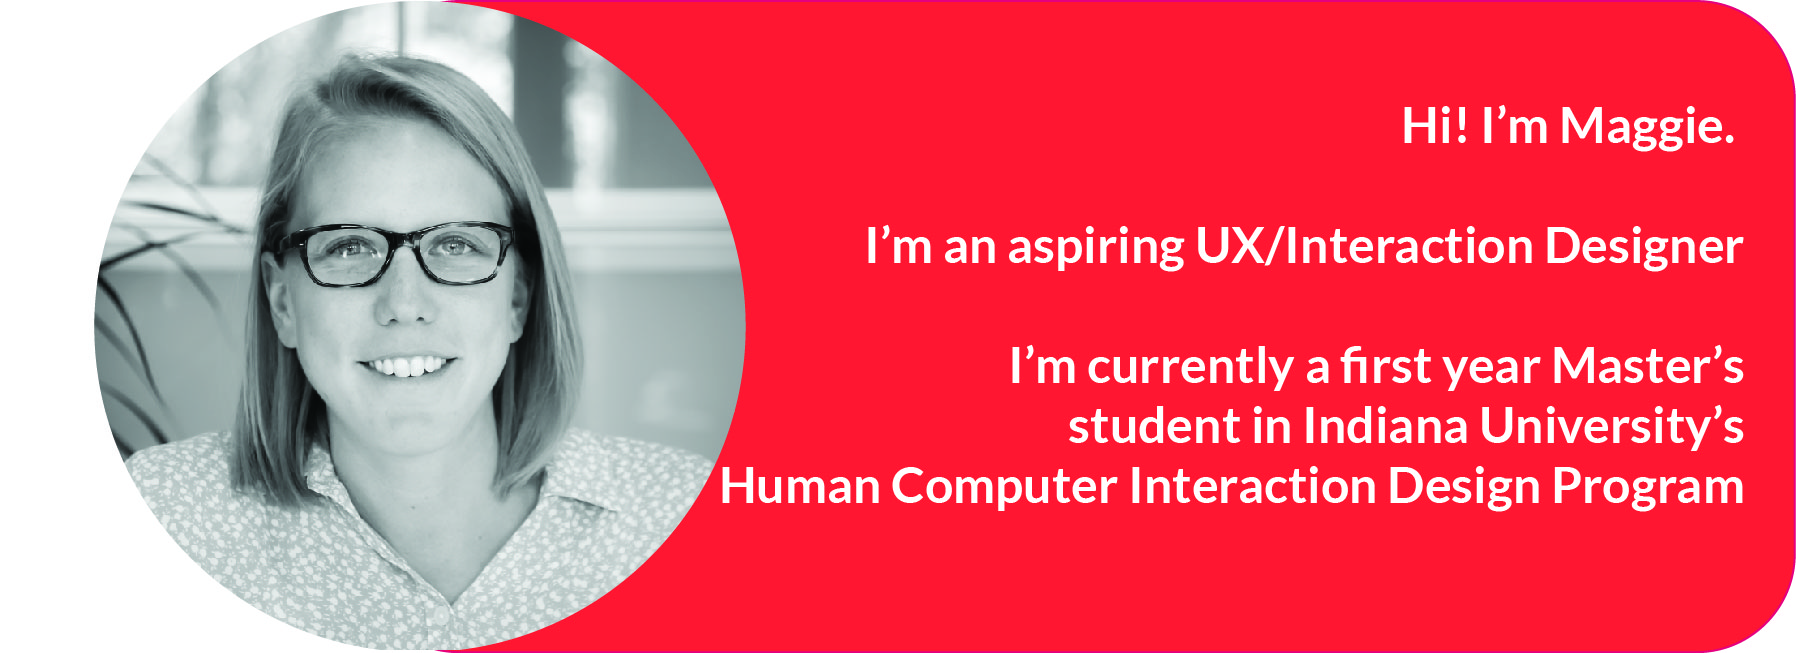
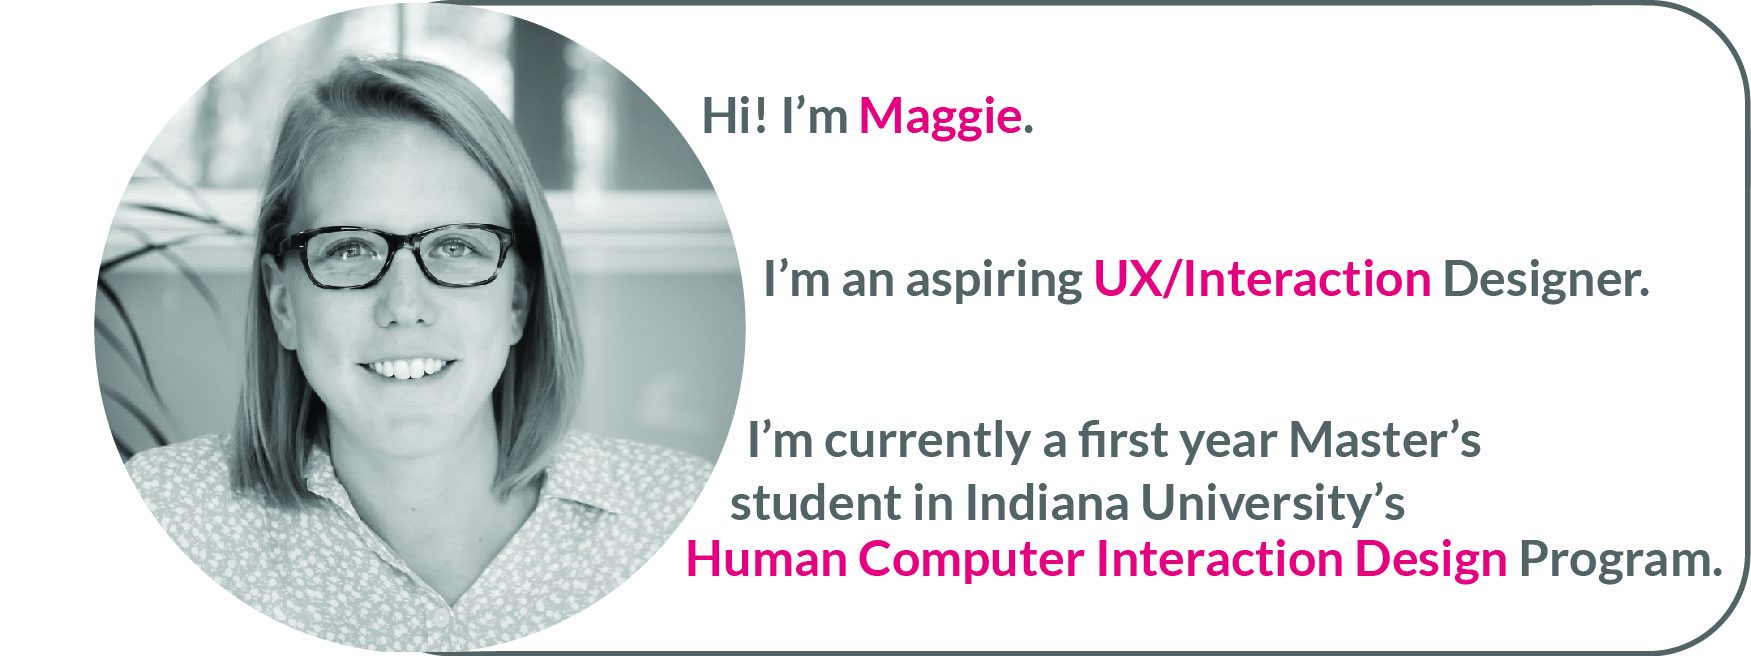
added homepage image

diff --git a/index.html b/index.html
@@ -10,7 +10,13 @@ mg: /img/homepage.jpg
   <hr>
   <br/>
 </div>
+<!-- 
+<div class="img_row">
+  <img class="col three" src="{{ site.baseurl }}/img/homepage.jpg"/>
+</div> -->
 
 <div class="img_row">
-<img class="col three" src="{{ site.baseurl }}/img/homepage.jpg"/>
+  <h3>Aspiring UX and Interaction Designer</h3>
+  <img class="col one" class="img-responsive" src="{{ site.baseurl }}/img/headshot.jpg"/>
+  <h3>Human Computer Interaction Design Master's Student at Indiana University</h3>
 </div>
